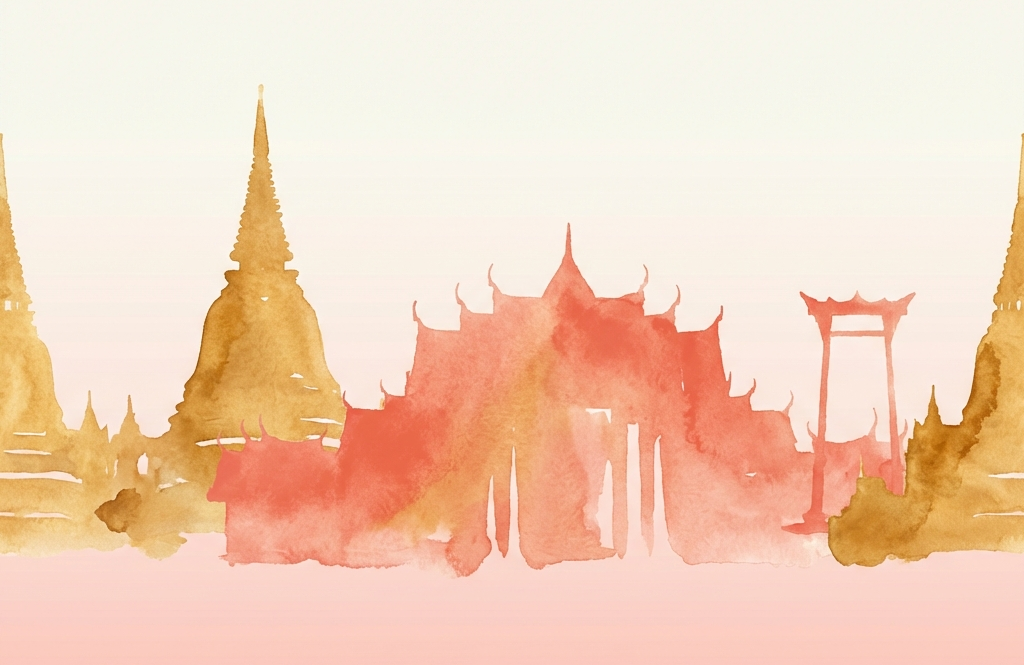
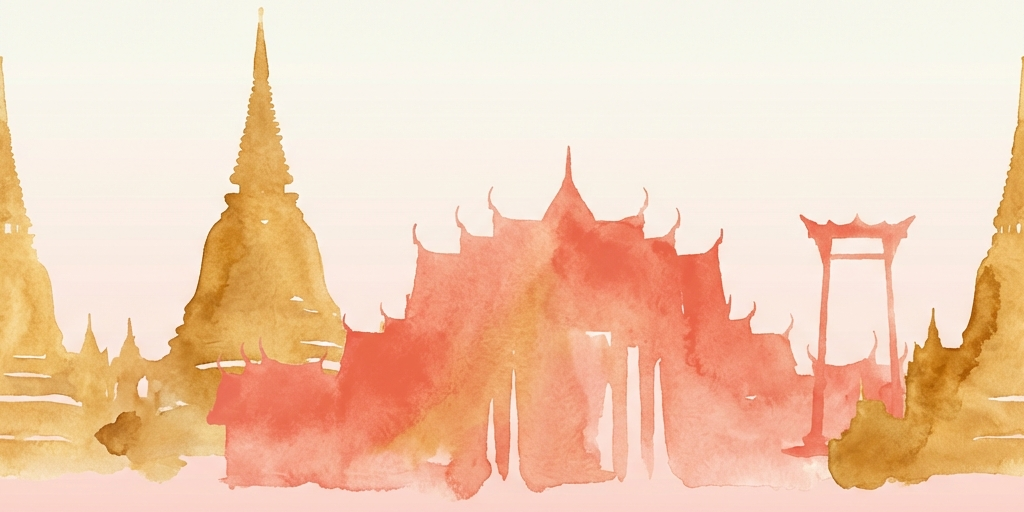
feat: crop header images to 20:10 aspect ratio for full-bleed display

diff --git a/crop_headers.py b/crop_headers.py
@@ -1,0 +1,55 @@
+from PIL import Image
+import os
+
+# Source and destination paths
+brain_dir = r'C:/Users/Admin/.gemini/antigravity/brain/a3a435fd-53e4-457f-90b1-f37df4662d93'
+output_dir = r'c:/Users/Admin/.gemini/antigravity/scratch/expense-tracker/backend/public/images'
+
+# Use the Thai culture final image
+input_path = os.path.join(brain_dir, 'summary_final_1768130588694.png')
+output_path = os.path.join(output_dir, 'summary_header.png')
+
+img = Image.open(input_path)
+print(f'Original: {img.size}')
+
+# Get dimensions
+w, h = img.size
+
+# Crop tighter - remove more of the outer edges
+# Target: 20:10 (2:1) aspect ratio for hero image
+target_ratio = 20 / 10  # 2:1
+
+# Calculate crop dimensions
+# Make it wider and shorter
+new_height = int(w / target_ratio)
+top = (h - new_height) // 2
+
+# Crop from the center
+img_cropped = img.crop((0, top, w, top + new_height))
+print(f'Cropped: {img_cropped.size}')
+
+# Convert to RGB if needed
+if img_cropped.mode in ('RGBA', 'P'):
+    img_cropped = img_cropped.convert('RGB')
+
+img_cropped.save(output_path, 'PNG', optimize=True)
+print(f'Saved: {output_path} ({os.path.getsize(output_path)/1024:.0f} KB)')
+
+# Also create expense and income headers with same crop
+expense_input = os.path.join(brain_dir, 'expense_header_v2_1768127912320.png')
+income_input = os.path.join(brain_dir, 'income_header_v2_1768127932708.png')
+
+for name, path in [('expense', expense_input), ('income', income_input)]:
+    if os.path.exists(path):
+        img = Image.open(path)
+        w, h = img.size
+        new_height = int(w / target_ratio)
+        top = (h - new_height) // 2
+        img_cropped = img.crop((0, top, w, top + new_height))
+        if img_cropped.mode in ('RGBA', 'P'):
+            img_cropped = img_cropped.convert('RGB')
+        out = os.path.join(output_dir, f'{name}_header.png')
+        img_cropped.save(out, 'PNG', optimize=True)
+        print(f'Saved: {out} ({os.path.getsize(out)/1024:.0f} KB)')
+
+print('Done!')
